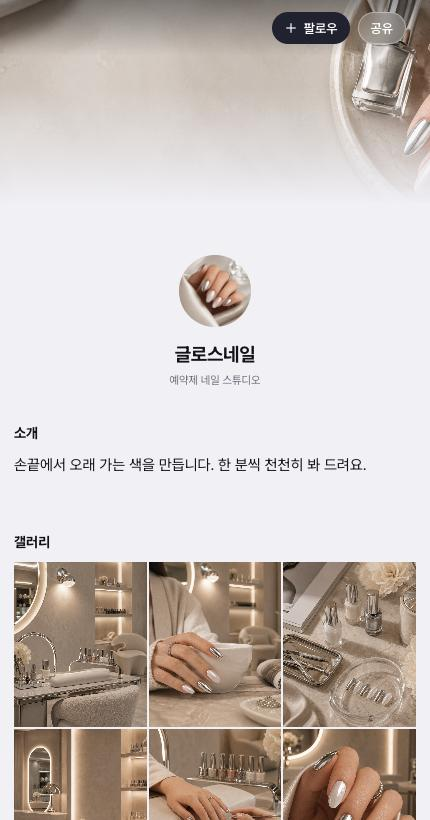
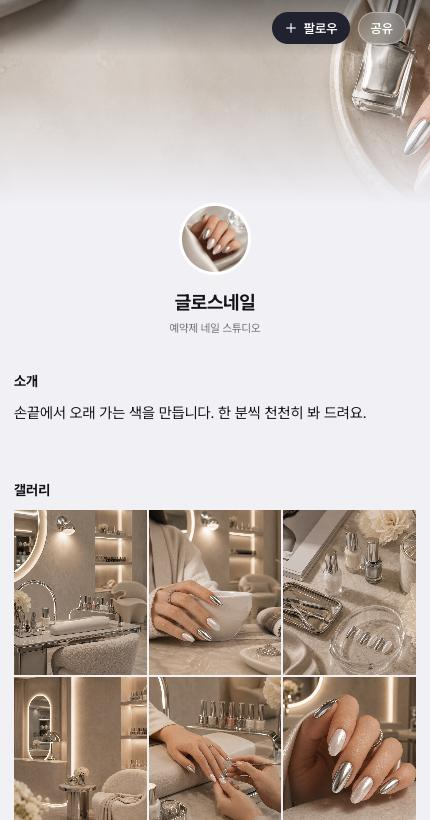
Shoot the preset cards from real pages
The picker no longer draws its own miniatures. There is an example page
per preset — the clinic, the nail studio, the yoga class and the alumni
association, the last one taken from the page already in the service —
and the cards carry captures of those pages, so what is promised is what
gets built.

Four presets now: the namecard, a profile with a round photo, a profile
led by a large image, and a meeting page. On a narrow screen they slide
sideways rather than stacking, since the point is to compare them.

A round photo set over the background sits half onto it.

diff --git a/prototypes/profile-edit-card-1015/profile-edit-card.html b/prototypes/profile-edit-card-1015/profile-edit-card.html
@@ -287,8 +287,8 @@
     .block.is-over-cover { margin-top: calc(var(--cover-show) - var(--cover-h) - 24px); z-index: 1; }
     body.preview .block.is-over-cover { margin-top: calc(var(--cover-show) - var(--cover-h) - 12px); }
     /* 원형·배경만 — 배경 사진에 걸쳐 서거나, 바로 아래 붙어 선다 */
-    .block.is-head-over { margin-top: -60px; z-index: 1; }
-    body.preview .block.is-head-over { margin-top: -48px; }
+    .block.is-head-over { margin-top: -82px; z-index: 1; }
+    body.preview .block.is-head-over { margin-top: -70px; }
     .block.is-head-near { margin-top: -28px; }
     body.preview .block.is-head-near { margin-top: -16px; }
     .block.is-hidden .block-body { opacity: 0.4; }
@@ -2760,8 +2760,9 @@
      ============================================================ */
   const PRESETS = {
     card:    { layout: 'card',   surface: 'card',  kinds: ['sns', 'text', 'info'] },
-    profile: { layout: 'avatar', surface: 'plain', kinds: ['text', 'gallery', 'info', 'board', 'review'] },
-    group:   { layout: 'cover',  surface: 'card',  kinds: ['text', 'event', 'board', 'gallery'] }
+    profile: { layout: 'avatar', surface: 'plain', kinds: ['text', 'gallery', 'info', 'review'] },
+    photo:   { layout: 'image',  surface: 'card',  kinds: ['text', 'gallery', 'info'] },
+    group:   { layout: 'image',  surface: 'card',  kinds: ['text', 'event', 'board', 'info'] }
   };
 
   function startFromPreset(key) {
